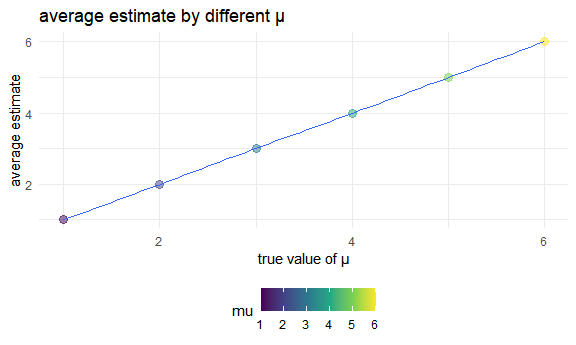
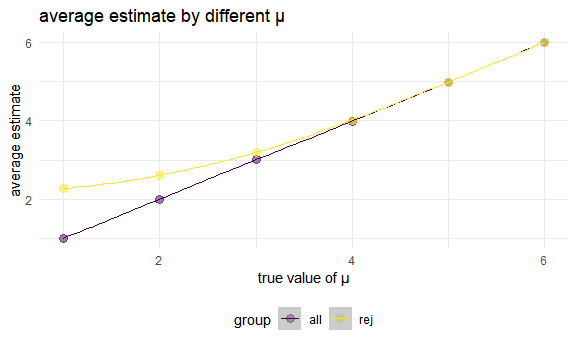
Made some descriptions, but have some questions about prob3.

diff --git a/p8105_hw5_cy2588.md b/p8105_hw5_cy2588.md
@@ -279,6 +279,12 @@ lda_data_tidy %>%
 
 <img src="p8105_hw5_cy2588_files/figure-gfm/unnamed-chunk-13-1.png" width="90%" />
 
+From the plot above, we could find that the observations of experimental
+group keep increasing since week 1, and observations of control group
+are basically stable. Then we noted that the observations of both groups
+are close, and observations of experimental group become higher than
+control group over time.
+
 ## Problem3
 
 Set mu = 0
@@ -334,11 +340,11 @@ make plot of the power
 
 ``` r
 sim_total %>% 
+  mutate(mu = as.factor(mu)) %>% 
   filter(p_value <= 0.05) %>% 
   count(mu)%>%
-ggplot(aes(x = mu, y = n)) +
-  geom_point(aes(color = mu), alpha = .5, size = 3) +
-  geom_smooth(alpha = .5, size = 0.5) +
+ggplot(aes(x = mu, y = n/5000, fill = mu)) +
+  geom_bar(stat="identity", width = ) +
   labs(
     x = "true value of μ",
     y = "power of the test",
@@ -348,14 +354,26 @@ ggplot(aes(x = mu, y = n)) +
 
 <img src="p8105_hw5_cy2588_files/figure-gfm/unnamed-chunk-16-1.png" width="90%" />
 
-plot of average estimate and true value
+According to the plot, we could find the power of the test increased
+when our true value of μ increasing. When true value of μ equal or
+greater than 5, power of the test reached maximum.
+
+plot of average estimate and rejected
 
 ``` r
-sim_total %>% 
+mean_data = sim_total %>% 
   group_by(mu) %>% 
   summarize( mean_mu = mean(mu_hat))%>% 
- ggplot(aes(x = mu, y = mean_mu)) +
-  geom_point(aes(color = mu), alpha = .5, size = 3) +
+  mutate(group = "all") 
+rej_mean_data = sim_total %>% 
+  filter(p_value <= 0.05) %>% 
+  group_by(mu) %>% 
+  summarize( mean_mu = mean(mu_hat))%>% 
+  mutate(group = "rej")
+p3_plot_data = bind_rows(mean_data, rej_mean_data)
+
+ ggplot(p3_plot_data, aes(x = mu, y = mean_mu, group = group, color = group)) +
+  geom_point(aes(color = group), alpha = .5, size = 3) +
   geom_smooth(alpha = .5, size = 0.5) +
   labs(
     x = "true value of μ",
@@ -365,22 +383,3 @@ sim_total %>%
 ```
 
 <img src="p8105_hw5_cy2588_files/figure-gfm/unnamed-chunk-17-1.png" width="90%" />
-
-plot of average estimate of rejected samples and true value
-
-``` r
-sim_total %>% 
-  filter(p_value <= 0.05) %>% 
-  group_by(mu) %>% 
-  summarize( mean_mu_2 = mean(mu_hat))%>%
-ggplot(aes(x = mu, y = mean_mu_2)) +
-  geom_point(aes(color = mu), alpha = .5, size = 3) +
-  geom_smooth(alpha = .5, size = 0.5) +
-  labs(
-    x = "true value of μ",
-    y = "average estimate of rejected samples",
-    title = "average estimate of rejected samples by different μ"
-    )
-```
-
-<img src="p8105_hw5_cy2588_files/figure-gfm/unnamed-chunk-18-1.png" width="90%" />
